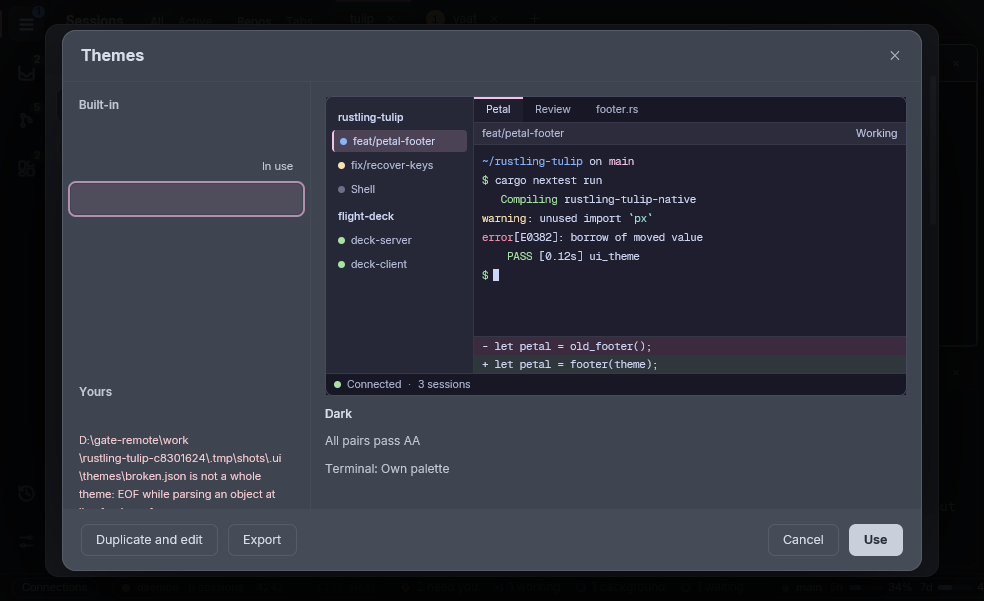
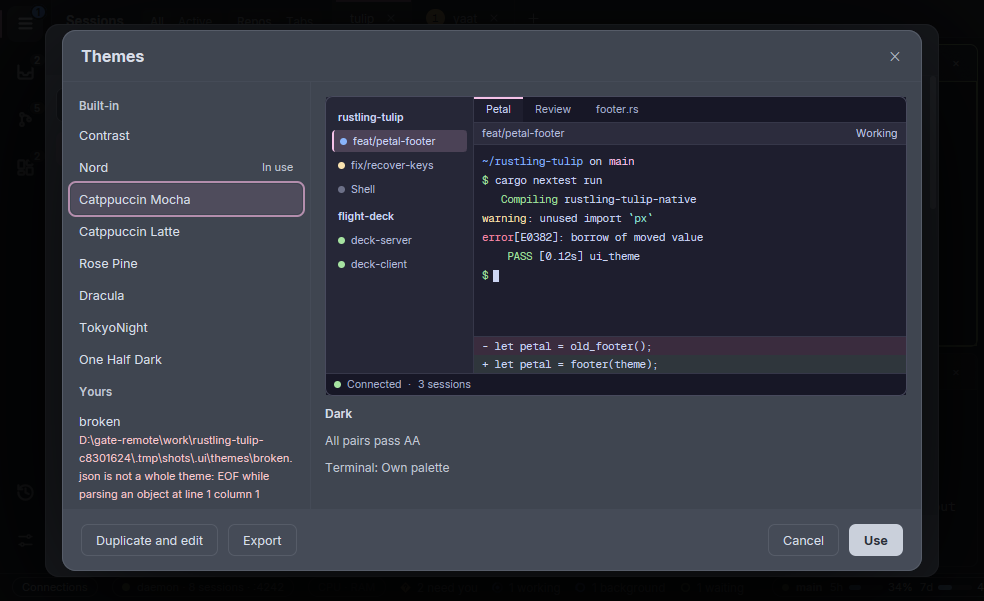
docs: refresh the README for v0.15.0-alpha
Re-shoot every README screenshot on the updated toolkit, add this
release's features and What's new, and keep the iPhone app's changelog
bullets as launch notes in its design file.

diff --git a/README.md b/README.md
@@ -14,24 +14,24 @@ It is alpha software.
 - Add any folder as a repo: one that is not a git repo shows as DIR and opens sessions in place, with no worktree or branch choice.
 - Group repos into a workspace: one session works across all of them, with their relative paths kept. A VS Code `.code-workspace` file next to a repo is offered as a workspace.
 - Every session's status has its own shape and colour: working, asking you something, finished while you were away, idle, or idle with background work still running.
-- Tab pills and, on Windows, a badge on the taskbar button count the sessions that need you, and show nothing at zero; Settings can show busy or idle counts instead. A blue count on the taskbar, the tabs and the Sessions icon shows sessions that finished while you weren't looking; looking at one clears it.
+- Tab pills and, on Windows, a badge on the taskbar button count the sessions that need you, and show nothing at zero; Settings can show busy or idle counts instead. A blue count on the taskbar, the tabs and the Sessions icon shows sessions that finished while you weren't looking; looking at one clears it. On macOS, the Dock icon shows how many sessions need you, or how many finished unseen while none do.
 - The Needs You panel lists every session waiting on you, longest wait first, with what each asks: its question, the tool it wants to run, or the plan to approve. A notification fires when a session needs you or finishes (skipped when you are already looking at it), after a wait you choose for Finished.
-- Notifications can be the app's own toasts, which answer a prompt or go to its pane without taking focus; on macOS they always are. Each kind plays its own sound, silent during Do Not Disturb: a chime from the bundled list, your own .wav or .ogg, or none.
+- Notifications can be the app's own toasts, which answer a prompt or go to its pane without taking focus, at any of eight spots around the screen's edge; on macOS they always are. Each kind plays its own sound, silent during Do Not Disturb: a chime from the bundled list, your own .wav or .ogg, or none.
 - Turn on session summaries in Settings › Dashboard and each finished turn of a Claude session gets a one-line summary, kept across restarts, with a daily cap on what they spend.
 - The Dashboard tab, opened from the activity rail, opens on a Compact view of every running agent by repo, with its state, work and subagents (each with its model and effort level) and no scrolling. Its By status view adds context, recent work, cost, a two-hour activity bar and the Linear issue named in each session's branch, with a drawer per session.
 - Answer a session's question or permission prompt from the Dashboard with one click, or jump to its pane; the header counts today's cost, tokens and commits across every session.
-- A session's dispatch runs (DS) and subagents (SA) nest under it in the sidebar, a run's own subagents under the run, and a chevron folds them away. Click one, or drag it onto a pane, to follow its transcript: replies, tool calls and their output, which a click expands. A run's pane adds its cost, tokens and a Stop button, and the Dashboard lists each run under the session that started it.
+- A session's dispatch runs (DS) and subagents (SA) nest under it in the sidebar, a run's own subagents under the run, and a chevron folds them away; a button beside the Sessions title folds or opens them all at once. Settings chooses whether finished subagents stay, how many and for how long, and whether their rows draw compact. Click one, or drag it onto a pane, to follow its transcript: replies, tool calls and their output, which a click expands. A run's pane adds its cost, tokens and a Stop button, and the Dashboard lists each run under the session that started it.
 - `rustling-tulipd` drives sessions from a shell or a script: `sessions`, `read`, `spawn`, `send`, `kill`, `wait` and `watch`, each with `--json`.
 - Ctrl+Shift+P opens a jump palette: type to find any open pane, tab, session, repo or workspace, and Enter goes straight there. It also opens a shell on any connected computer.
 - Open a repo's, workspace's or tab's menu from the keyboard with Shift+F10 or the Menu key.
-- Tabs and split panes: drag a pane or a sidebar session onto a pane to split, swap or move it, rearrange a tab into a grid, and undo a closed tab or a moved pane.
+- Tabs and split panes: drag a pane or a sidebar session onto a pane to split, swap or move it, rearrange a tab into a grid, and undo a closed tab or a moved pane. Closing a tab with running sessions asks whether to keep them running or stop them.
 - A tab you haven't named is named after the repos and workspaces of its sessions.
 - The sidebar groups sessions by repo or by tab, in Comfortable or Compact rows, with session names smaller than the repo name that holds them, and can show every session under a repo, only the busy ones, or just a count.
 - Repos sort with the ones that need you on top, by latest activity, or in your own order, and an All / Active switch hides the repos and workspaces with nothing running.
 - Right-click a repo or workspace for a Spawn submenu: Last, each agent, Shell and your presets. The New session dialog picks its target from a list that narrows as you type, Claude's model (Fable included) and its effort level from Low to Max, and in Advanced takes your own command-line arguments, which Duplicate and Launch last repeat.
 - Pick each host's default shell for new sessions and shells, from the shells installed there (PowerShell, cmd, Git Bash, WSL, Nushell, fish, zsh or bash) or your own command. Claude sessions start inside it.
 - Launch again with one click: a repo's last launch settings are replayed from its row. Presets start many sessions at once from a prompts file, a folder or GitHub issue ranges, and on a remote host the wizard takes typed paths on that host.
-- In the terminal, copying from Claude Code's boxed panels leaves out the borders, URLs open with Ctrl+click, Ctrl+click on a file path opens it in its default app, Ctrl+Shift+click offers the viewer or its folder too, shell commands get a pass/fail mark in the gutter with copy and re-run, and two header buttons jump between the prompts you sent.
+- In the terminal, copying from Claude Code's boxed panels leaves out the borders, URLs open with Ctrl+click, Ctrl+click on a file path opens it in its default app, Ctrl+Shift+click offers the viewer, its folder or Follow in tab, a tab that tails the file live on any host, shell commands get a pass/fail mark in the gutter with copy and re-run, and two header buttons jump between the prompts you sent.
 - Terminal programs that ask for urxvt or pixel-precise mouse reporting get clicks, drags and the wheel in the format they asked for.
 - When Claude exits, its pane stays a working shell, and its Chat and Summary views turn off until Claude starts again.
 - Start Claude yourself in a plain shell, by name, an alias or a wrapper, and the pane gets Chat and Summary while it runs. Settings › Claude can install the app's hooks in Claude Code's own settings, so such a Claude reports its conversation and status too.
@@ -45,7 +45,9 @@ It is alpha software.
 - A Claude session's pane can show its conversation as a chat instead of the terminal (the pane's Chat button, its menu or Ctrl+Shift+M), with answers appearing as they are written. Each session remembers which view it was last shown in.
 - Answer Claude's questions, plans and permission prompts from cards, by click or key or in your own words in the card's text box, and send messages from a box under the chat that keeps your text when a send is refused.
 - A strip under the chat shows what is still running: subagents, background shells and the next wakeup, with their ages.
-- A Bash or PowerShell card shows its command one statement per line, and a command that writes a log offers Tail: a scrolling box under the card that follows the file as it grows.
+- A Bash or PowerShell card shows its command one statement per line, and a command that writes a log offers Tail: a scrolling box under the card that follows the file as it grows, wherever the file is. A file link in an answer opens the file, and Ctrl+Shift+click on it offers the same menu as the terminal's.
+- Pull a draft left in the terminal's prompt box into the message box to edit, or send it as it stands, and send or edit Claude's suggested next prompt with one click.
+- Each Code Mode script shows as one line with its description, time and the calls it ran, and a failed script's error under it.
 - The Summary view (Ctrl+Shift+U) shows a session as one line per stretch of work, each opening into its messages.
 - Long replies written as expandable text open a short phrase into its longer form with a click, one level at a time.
 - Compact mode, on by default, folds a run of reads, searches and commands into one line you can open. The chat column keeps a readable width on wide panes, and each turn's final answer sits in its own box.
@@ -81,7 +83,7 @@ It is alpha software.
 
 ### Remote access over Tailscale
 
-- Turn on remote access in Settings and your other PCs on your tailnet can open this PC's sessions. The daemon serves only your tailnet, over TLS with a Tailscale certificate.
+- Turn on remote access in Settings and your other PCs on your tailnet can open this PC's sessions. The daemon serves only your tailnet, over TLS with a Tailscale certificate, and Settings › Remote access tells you when Tailscale is slow to answer while it keeps serving.
 - The host picker lists your tailnet machines and the hosts you saved, and the app connects to every saved host you have switched on when it starts.
 - A new device has to be approved on the host PC with a one-time pairing code. The Devices list shows who is connected and when each device was last seen, and Block cuts a device off until you forget it.
 - Ctrl+click a file path in a remote session's terminal, or use Fetch file…, to copy the file to this PC and open it. An HTML page brings its images and stylesheets with it.
@@ -159,6 +161,15 @@ On a Mac with Apple silicon (there is no build for Intel Macs):
 4. Secret environment rows need Windows Credential Manager, so on a Mac a session with a secret row will not start; give it the secret through an `${env:NAME}` row instead.
 
 Remote access over Tailscale needs [Tailscale](https://tailscale.com/) on both PCs, signed in to the same tailnet, with HTTPS certificates turned on for it. Remote access over SSH needs only an SSH login to the other PC.
+
+## What's new in v0.15.0-alpha
+
+- Follow in tab opens a tab that tails a file live, on any host, from a terminal's file path or a Chat file link.
+- Chat can pull a draft from the terminal's prompt box to edit or send it as is, and offers Claude's suggested next prompt.
+- Closing a tab with running sessions asks whether to keep them running or stop them.
+- Chat draws each Code Mode script as one line with its description, time and the calls it ran.
+
+The full list is in the [release notes](https://github.com/leftos/rustling-tulip/releases/tag/v0.15.0-alpha).
 
 ## What's new in v0.14.0-alpha
 

diff --git a/docs/plans/mobile-app.md b/docs/plans/mobile-app.md
@@ -293,6 +293,22 @@ The web app's open features wait for the native app and are built there once its
 
 **Retiring the web app:** once MA.16's hand check and PR.8 pass, the web app is removed in an item of its own (`apps/pwa`, `tools/protocol-ts`, the tailnet router's static routes and the `-Pwa` build steps), since the native app then replaces it. Whether the daemon's direct Web Push sender goes with it is decided in that item.
 
+## Launch notes
+
+The changelog bullets for the iPhone app's features, kept out of the desktop releases' notes while the app is on TestFlight only. The release that launches the app takes them into its changelog section, audited then.
+
+- The iPhone's Chat can pull a draft from the terminal's prompt box or send it as it stands, and shows Claude's suggested next prompt to send or edit.
+- The iPhone app has a Settings screen, opened from Home: the Notifications switch, and your hosts with the Add a host form and the phone's SSH key, now live there, and Appearance chooses the phone's theme and text size.
+- On the iPhone, put the keyboard away by tapping the chat or the terminal, or with the new Hide keyboard and Hide keys.
+- The iPhone's Needs you card on Home shows each answer with its description, every question of a longer prompt, and Open on every card.
+- `rustling-tulipd push-fallback` sends each paired iPhone a push it cannot open, to check that its fallback alert shows.
+- On the iPhone, a host shown as Offline has a Retry button that tries it again at once, instead of waiting for it to redial.
+- On the iPhone, holding a finger on Chat text selects the word under it, and dragging while still holding widens the selection; handles at its ends move either end, dragging near the chat's edge scrolls it, and Copy puts it on the clipboard.
+- The iPhone's Chat draws each Code Mode script as one line: its description, number, time and the calls it ran, with a failed script's error under it.
+- A Needs you notification on the iPhone now leaves the notification list once the prompt is answered in any client, usually without opening the app, and the app badge shows what still waits.
+- On the iPhone, one tap on a short summary in Chat opens its full text, and a single tap follows a link in Chat.
+- On the iPhone, opening the app from a notification no longer shows your PC as not paired after a push woke the app while the phone was locked.
+
 ## Measured on a real iPhone
 
 MA.12, on the owner's iPhone with the TestFlight build and the Tailscale app, against the PC's daemon over the tailnet:
